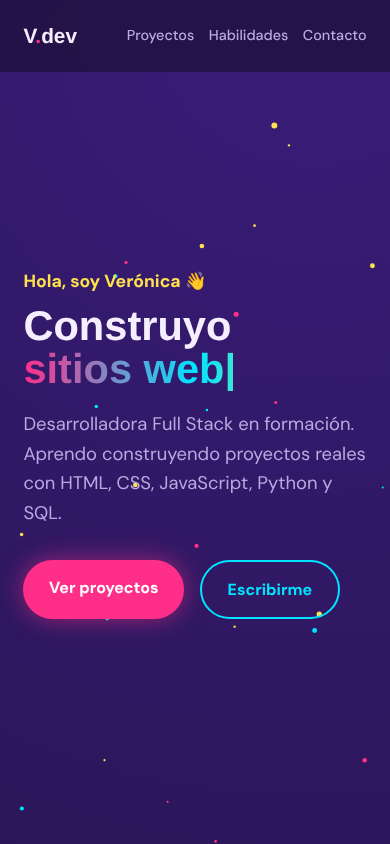
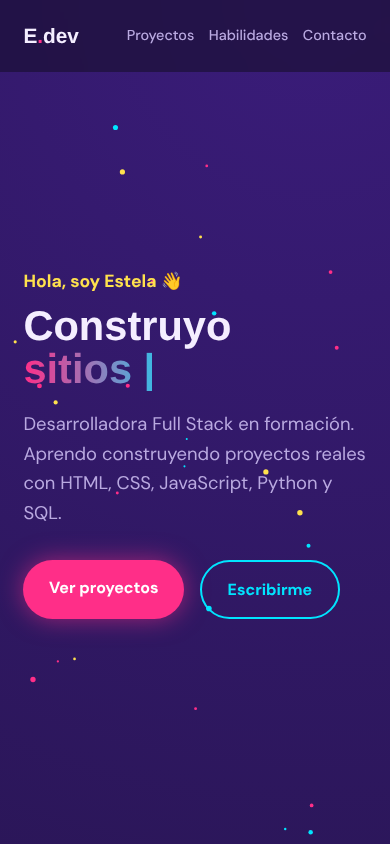
docs: actualiza nombre de autora y link de LinkedIn

Changed region(s): [[0.3692, 0.4005, 0.6154, 0.4621], [0.2769, 0.3081, 0.5231, 0.3697], [0.0615, 0.0308, 0.2154, 0.0616]]

diff --git a/index.html b/index.html
@@ -4,7 +4,7 @@
   <meta charset="UTF-8">
   <meta name="viewport" content="width=device-width, initial-scale=1.0">
   <meta name="description" content="Portfolio personal de una desarrolladora Full Stack en formación: proyectos, habilidades y contacto.">
-  <title>Verónica · Desarrolladora Full Stack</title>
+  <title>Estela Oviedo Cortez · Desarrolladora Full Stack</title>
   <link rel="preconnect" href="https://fonts.googleapis.com">
   <link rel="preconnect" href="https://fonts.gstatic.com" crossorigin>
   <link href="https://fonts.googleapis.com/css2?family=Unbounded:wght@500;800&family=DM+Sans:wght@400;500;700&display=swap" rel="stylesheet">
@@ -15,7 +15,7 @@
   <canvas id="particulas" aria-hidden="true"></canvas>
 
   <header class="nav">
-    <a href="#inicio" class="logo">V<span>.</span>dev</a>
+    <a href="#inicio" class="logo">E<span>.</span>dev</a>
     <nav aria-label="Principal">
       <a href="#proyectos">Proyectos</a>
       <a href="#habilidades">Habilidades</a>
@@ -25,7 +25,7 @@
 
   <main>
     <section id="inicio" class="hero">
-      <p class="saludo">Hola, soy Verónica 👋</p>
+      <p class="saludo">Hola, soy Estela 👋</p>
       <h1 class="titulo">
         Construyo
         <span class="rotador" id="rotador">sitios web</span>

diff --git a/README.md b/README.md
@@ -77,8 +77,8 @@ Verifica SEO básico, semántica, accesibilidad de imágenes y que existan los a
 
 ## 👩💻 Autora
 
-**Verónica** — Desarrolladora Full Stack en formación.
-[LinkedIn](https://www.linkedin.com/in/TU-PERFIL) · [GitHub](https://github.com/Rumenco1221)
+**Estela Oviedo Cortez** — Desarrolladora Full Stack en formación.
+[LinkedIn](https://www.linkedin.com/in/estela-oviedo-cortez-796303228) · [GitHub](https://github.com/Rumenco1221)
 
 ## 📄 Licencia
 
